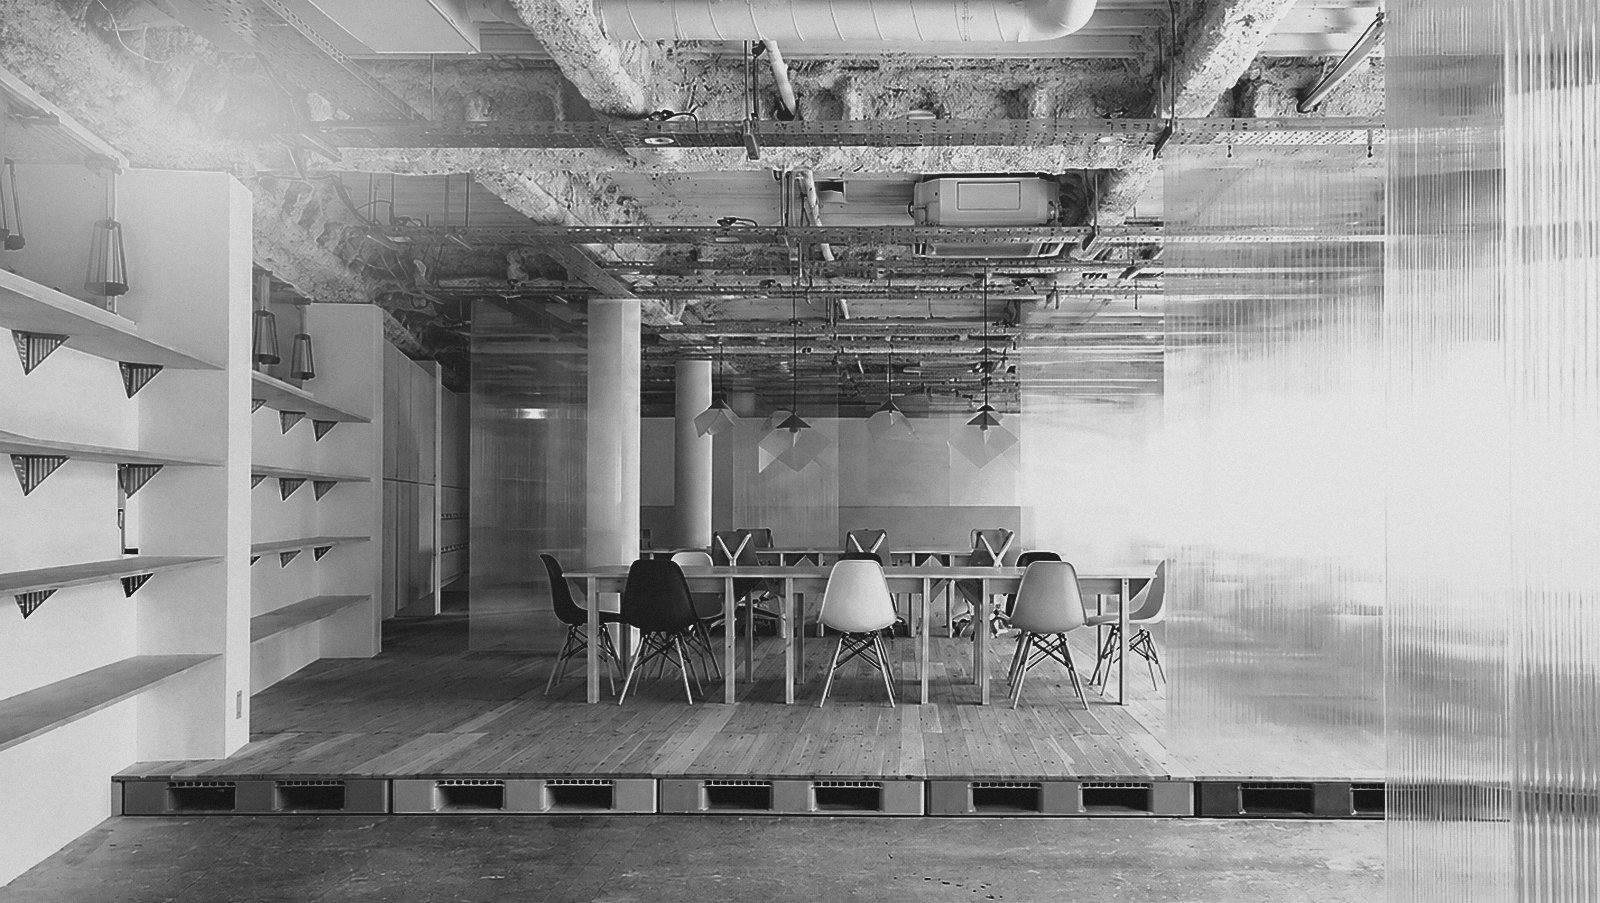
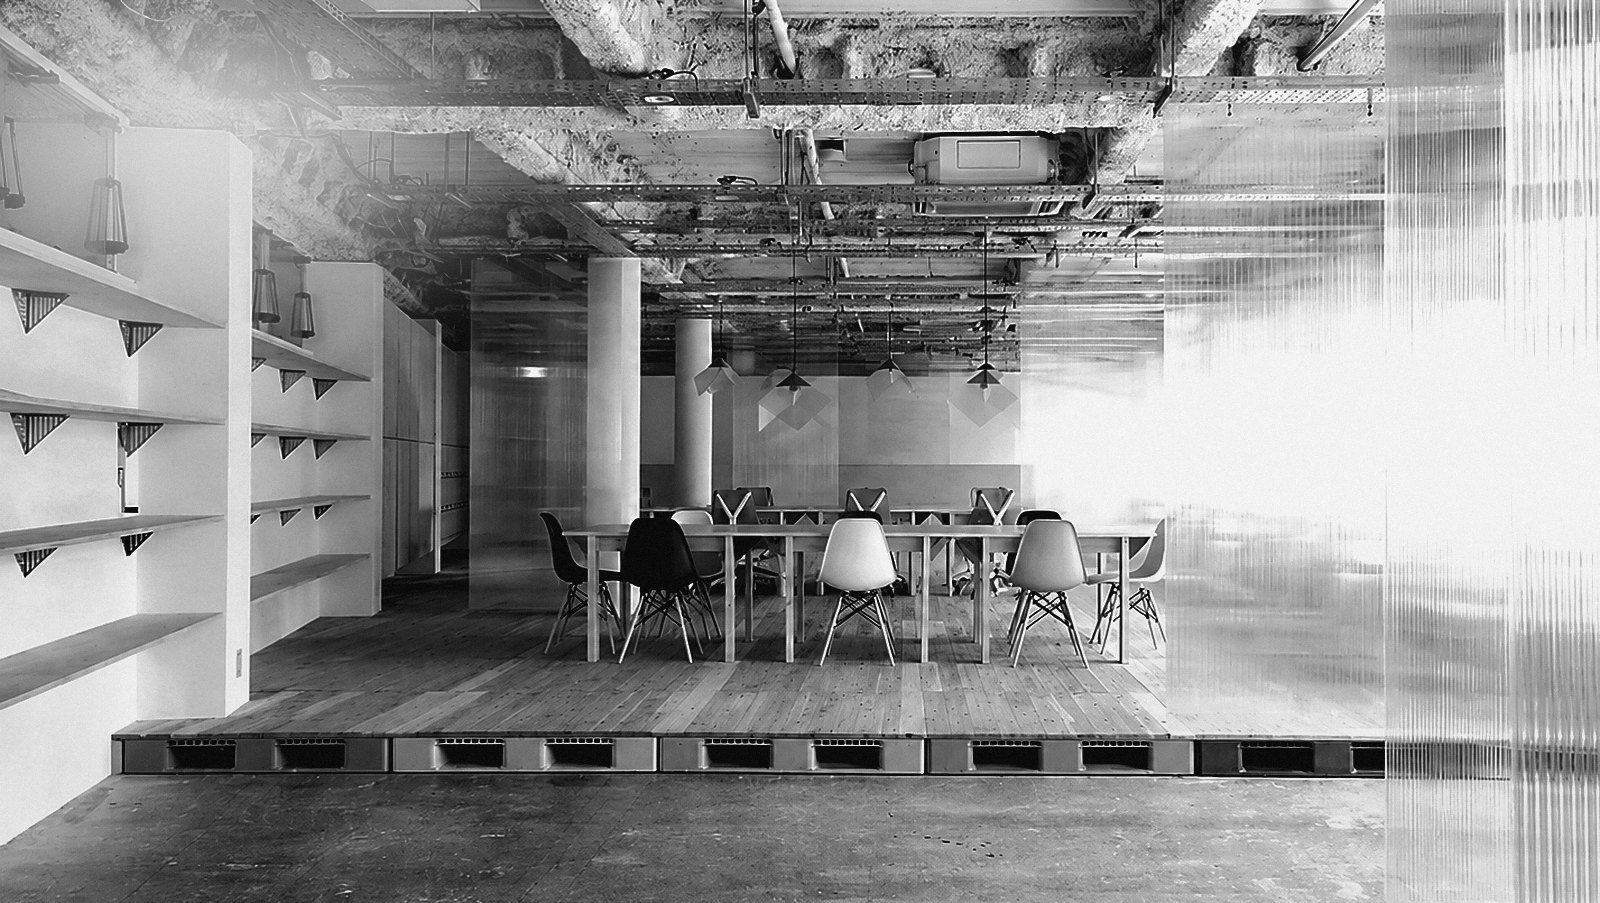
写真1を左右反転して見出し裏を空に、全6枚のコントラストを上げる、6枚目は椅子を見せる
- 写真1: 反転。素材のままだと高いビルが左に来て「会社概要」の真裏に
  重なり読めなかった。反転で建物が右へ、見出しの裏は空になる。
  実測: 見出し域 平均243 / 最暗216(canvasで表示画角どおりサンプル)
- コントラストを 0.88 → 1.06 に。黒の締めを 0.075→0.045、白を
  0.94→0.955 まで伸ばし、ハイライトのショルダーの掛かり始めも 0.74→0.80
  へ上げて白の伸びを確保。結果 p1 8〜12 / p99 241〜247 で
  パキッとしつつ潰れ・飛びはなし
- 6枚目: 椅子をもっと見せるため帯を 0.42 → 0.62 へ下げる
- 写真の版数を一括で v=13

diff --git a/Red-orange.html b/Red-orange.html
@@ -347,12 +347,12 @@
              31120/28485 の6枚をモノクロに調律したもの。矩形マスクで
              切り替わり、1枚ごとに緩やかなケンバーンズが掛かる。 -->
         <div class="cmp__photo cmp__slides" aria-hidden="true">
-          <div class="cmp__slide is-active"><img src="assets/images/company/office-1.jpg?v=11" alt=""></div>
-          <div class="cmp__slide"><img src="assets/images/company/office-2.jpg?v=11" alt=""></div>
-          <div class="cmp__slide"><img src="assets/images/company/office-3.jpg?v=8" alt=""></div>
-          <div class="cmp__slide"><img src="assets/images/company/office-4.jpg?v=8" alt=""></div>
-          <div class="cmp__slide"><img src="assets/images/company/office-5.jpg?v=9" alt=""></div>
-          <div class="cmp__slide"><img src="assets/images/company/office-6.jpg?v=10" alt=""></div>
+          <div class="cmp__slide is-active"><img src="assets/images/company/office-1.jpg?v=13" alt=""></div>
+          <div class="cmp__slide"><img src="assets/images/company/office-2.jpg?v=13" alt=""></div>
+          <div class="cmp__slide"><img src="assets/images/company/office-3.jpg?v=13" alt=""></div>
+          <div class="cmp__slide"><img src="assets/images/company/office-4.jpg?v=13" alt=""></div>
+          <div class="cmp__slide"><img src="assets/images/company/office-5.jpg?v=13" alt=""></div>
+          <div class="cmp__slide"><img src="assets/images/company/office-6.jpg?v=13" alt=""></div>
         </div>
         <div class="cmp__label reveal">
           <span class="cmp__en">Company</span>

diff --git a/darkblack.html b/darkblack.html
@@ -349,12 +349,12 @@
              31120/28485 の6枚をモノクロに調律したもの。矩形マスクで
              切り替わり、1枚ごとに緩やかなケンバーンズが掛かる。 -->
         <div class="cmp__photo cmp__slides" aria-hidden="true">
-          <div class="cmp__slide is-active"><img src="assets/images/company/office-1.jpg?v=11" alt=""></div>
-          <div class="cmp__slide"><img src="assets/images/company/office-2.jpg?v=11" alt=""></div>
-          <div class="cmp__slide"><img src="assets/images/company/office-3.jpg?v=8" alt=""></div>
-          <div class="cmp__slide"><img src="assets/images/company/office-4.jpg?v=8" alt=""></div>
-          <div class="cmp__slide"><img src="assets/images/company/office-5.jpg?v=9" alt=""></div>
-          <div class="cmp__slide"><img src="assets/images/company/office-6.jpg?v=10" alt=""></div>
+          <div class="cmp__slide is-active"><img src="assets/images/company/office-1.jpg?v=13" alt=""></div>
+          <div class="cmp__slide"><img src="assets/images/company/office-2.jpg?v=13" alt=""></div>
+          <div class="cmp__slide"><img src="assets/images/company/office-3.jpg?v=13" alt=""></div>
+          <div class="cmp__slide"><img src="assets/images/company/office-4.jpg?v=13" alt=""></div>
+          <div class="cmp__slide"><img src="assets/images/company/office-5.jpg?v=13" alt=""></div>
+          <div class="cmp__slide"><img src="assets/images/company/office-6.jpg?v=13" alt=""></div>
         </div>
         <div class="cmp__label reveal">
           <span class="cmp__en">Company</span>

diff --git a/fire.html b/fire.html
@@ -347,12 +347,12 @@
              31120/28485 の6枚をモノクロに調律したもの。矩形マスクで
              切り替わり、1枚ごとに緩やかなケンバーンズが掛かる。 -->
         <div class="cmp__photo cmp__slides" aria-hidden="true">
-          <div class="cmp__slide is-active"><img src="assets/images/company/office-1.jpg?v=11" alt=""></div>
-          <div class="cmp__slide"><img src="assets/images/company/office-2.jpg?v=11" alt=""></div>
-          <div class="cmp__slide"><img src="assets/images/company/office-3.jpg?v=8" alt=""></div>
-          <div class="cmp__slide"><img src="assets/images/company/office-4.jpg?v=8" alt=""></div>
-          <div class="cmp__slide"><img src="assets/images/company/office-5.jpg?v=9" alt=""></div>
-          <div class="cmp__slide"><img src="assets/images/company/office-6.jpg?v=10" alt=""></div>
+          <div class="cmp__slide is-active"><img src="assets/images/company/office-1.jpg?v=13" alt=""></div>
+          <div class="cmp__slide"><img src="assets/images/company/office-2.jpg?v=13" alt=""></div>
+          <div class="cmp__slide"><img src="assets/images/company/office-3.jpg?v=13" alt=""></div>
+          <div class="cmp__slide"><img src="assets/images/company/office-4.jpg?v=13" alt=""></div>
+          <div class="cmp__slide"><img src="assets/images/company/office-5.jpg?v=13" alt=""></div>
+          <div class="cmp__slide"><img src="assets/images/company/office-6.jpg?v=13" alt=""></div>
         </div>
         <div class="cmp__label reveal">
           <span class="cmp__en">Company</span>
